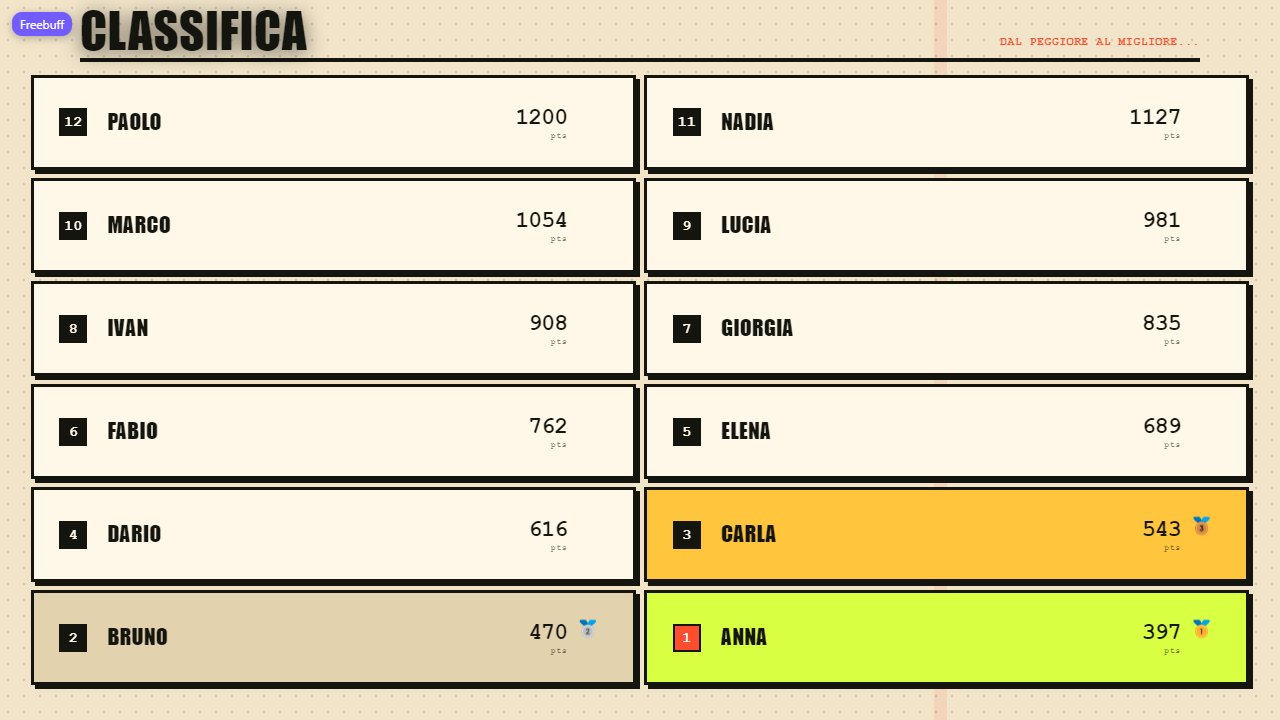
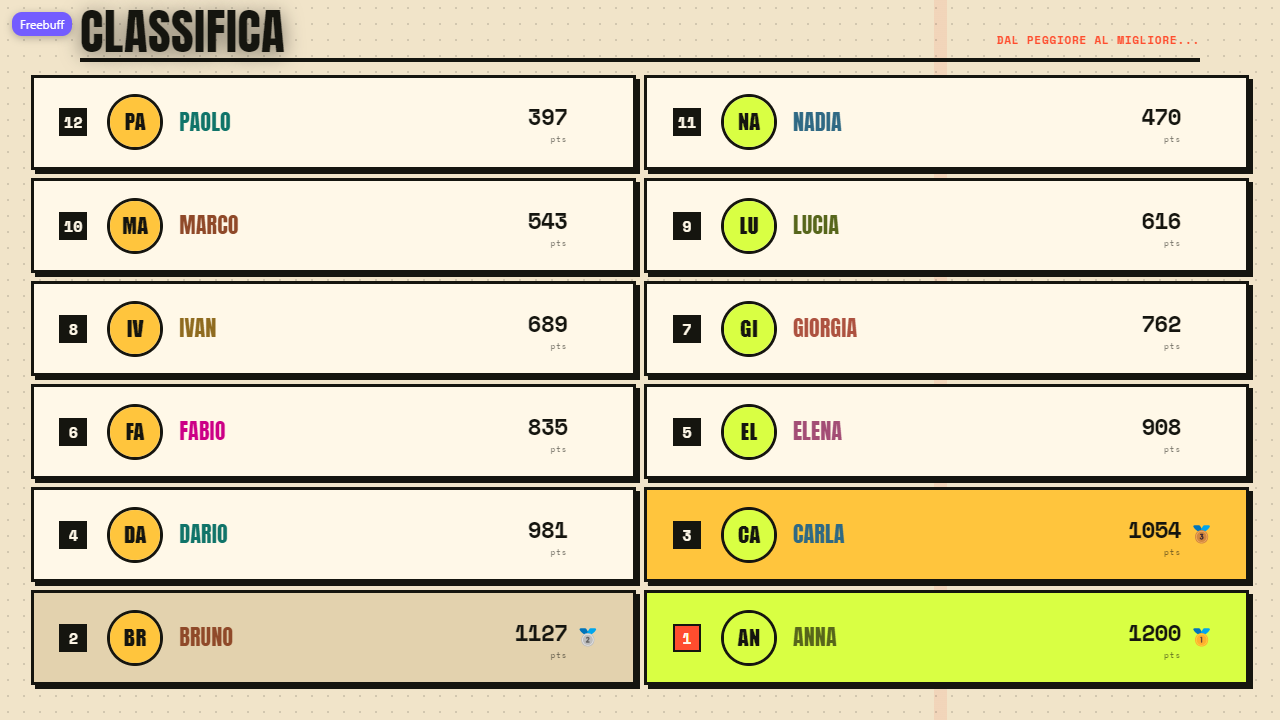
Rifà la verifica di F09 sul componente Angular vero
Gli screenshot erano presi su una replica del DOM: ora vengono dal
componente vero, con avatar e palette delle squadre, a 1280x720.

🤖 Generated with Codebuff

diff --git a/docs/ROADMAP-POST-PRIMA-SERATA.md b/docs/ROADMAP-POST-PRIMA-SERATA.md
@@ -225,7 +225,7 @@ La ripresa del Casino usa lo stesso `tvCheckpoint` dei round, con `mode` che ini
 | F15 | Parziale | 10 test Quiz/tempi e 2 backend passati | `92d2781` | Manche da 15 s anziché 10, con valore proporzionale al tempo e finestra server allineata; da provare in sala. |
 | F16 | Parziale | **35 test remoti e 2 backend whitelist passati** | `40c2767` + `b385571` | I topic seguono l'ID iniziale e quello adottato; in più, se il primo `START_VOTING` va perso, il solo `QUIZ_STATE` imposta Quiz, round attivo e votazione, così le risposte compaiono. La causa esatta del primo round in sala resta da provare con più dispositivi. |
 | F05 | Corretto nel codice, da verificare in serata | 38 test backend (inclusa l'espulsione) e 53 frontend mirati | `c3d9bd3` | Solo la regia espelle: il token vecchio non vale più, il nome torna libero per un rientro volontario e il telefono torna al setup. I punti già presi restano in classifica; nessuna prova con telefoni reali. |
-| F09 | Corretto, verificato a 720p in locale, da vedere in TV | 37 test mirati | `de0bcdd` + `78f0e32` | A fine reveal il tabellone si compatta; oltre dieci squadre passa a due colonne. Misurato a 1280×720 con il CSS reale: con 12 squadre righe da ~94px, con 16 da ~69px, nomi a 21,6px, nessuna riga fuori dal riquadro e nessun nome troncato (`docs/screenshots/f09-classifica-rapida-12-squadre-720p.png` e `docs/screenshots/f09-classifica-rapida-16-squadre-720p.png`). Fino a dieci resta la colonna singola. Da guardare su TV vera dal fondo sala: la misura locale non dice la percezione a distanza. |
+| F09 | Corretto, verificato a 720p in locale, da vedere in TV | 37 test mirati | `de0bcdd` + `78f0e32` | A fine reveal il tabellone si compatta; oltre dieci squadre passa a due colonne. Misurato a 1280×720 sul componente Angular vero, con avatar e palette delle squadre: con 12 squadre righe da 94px, con 16 da 69px, nomi a 21,6px, nessuna riga fuori dal riquadro e nessun nome troncato (`docs/screenshots/f09-classifica-rapida-12-squadre-720p.png` e `docs/screenshots/f09-classifica-rapida-16-squadre-720p.png`). Fino a dieci resta la colonna singola. Da guardare su TV vera dal fondo sala: la misura locale non dice la percezione a distanza. |
 | F35 | Corretto nel codice, da verificare in sala | 35 test mirati | `74e2ba3` | Il telefono mostra il timbro VIA e una vibrazione più netta quando parte il cronometro, oltre al cambio ATTENDI/STOP. |
 | F33 | Verificato, nessun cambio di banca | 2 test payload | `d09da92` | Le fasce 100/200 facile, 300/400 media, 500 difficile sono rispettate in tutte e 16 le categorie; la difficoltà reale ora viaggia nel payload e un test la protegge. La percezione «facile» resta soggettiva. |
 | F24 | Verificato su viewport telefono | Misura 320×568 + scroll | — | Con 16 caselle il contenuto scorre di 560 px e l'ultima casella è interamente visibile; nessuna casella resta irraggiungibile. Nessun cambio CSS necessario. |

diff --git a/CHANGELOG.md b/CHANGELOG.md
@@ -4,7 +4,7 @@
 
 - Con più di dieci squadre su TV 720p la classifica rapida comprimeva tutto in una colonna: a 16 nomi ogni riga scendeva a ~34px mentre il testo restava a 16,6px, illeggibile dal fondo della sala.
 - A reveal concluso, oltre dieci squadre, il tabellone passa a due colonne: righe da ~94px con 12 squadre e ~69px con 16, nomi e punti a 21,6/23px. L'ordine si legge da sinistra a destra, dal peggiore in alto a sinistra al migliore in basso a destra. Fino a dieci resta la colonna singola, che prima funzionava.
-- Verifiche: 2 test nuovi (soglia a dieci e classi a reveal concluso) e misura a schermo a 1280×720 con il CSS reale: nessuna riga fuori dal riquadro, nessun nome troncato. Screenshot in `docs/screenshots/f09-classifica-rapida-12-squadre-720p.png` e `docs/screenshots/f09-classifica-rapida-16-squadre-720p.png`. Suite completa frontend (394 test su 48 file).
+- Verifiche: 2 test nuovi (soglia a dieci e classi a reveal concluso) e misura a schermo sul componente Angular vero, con avatar e palette delle squadre, a 1280×720: righe da 94px con 12 squadre e 69px con 16, nessuna riga fuori dal riquadro, nessun nome troncato. Screenshot in `docs/screenshots/f09-classifica-rapida-12-squadre-720p.png` e `docs/screenshots/f09-classifica-rapida-16-squadre-720p.png`. Suite completa frontend (394 test su 48 file).
 
 ## 16 novembre 2026 — Rientro del telefono dopo un refresh (F02)
 
